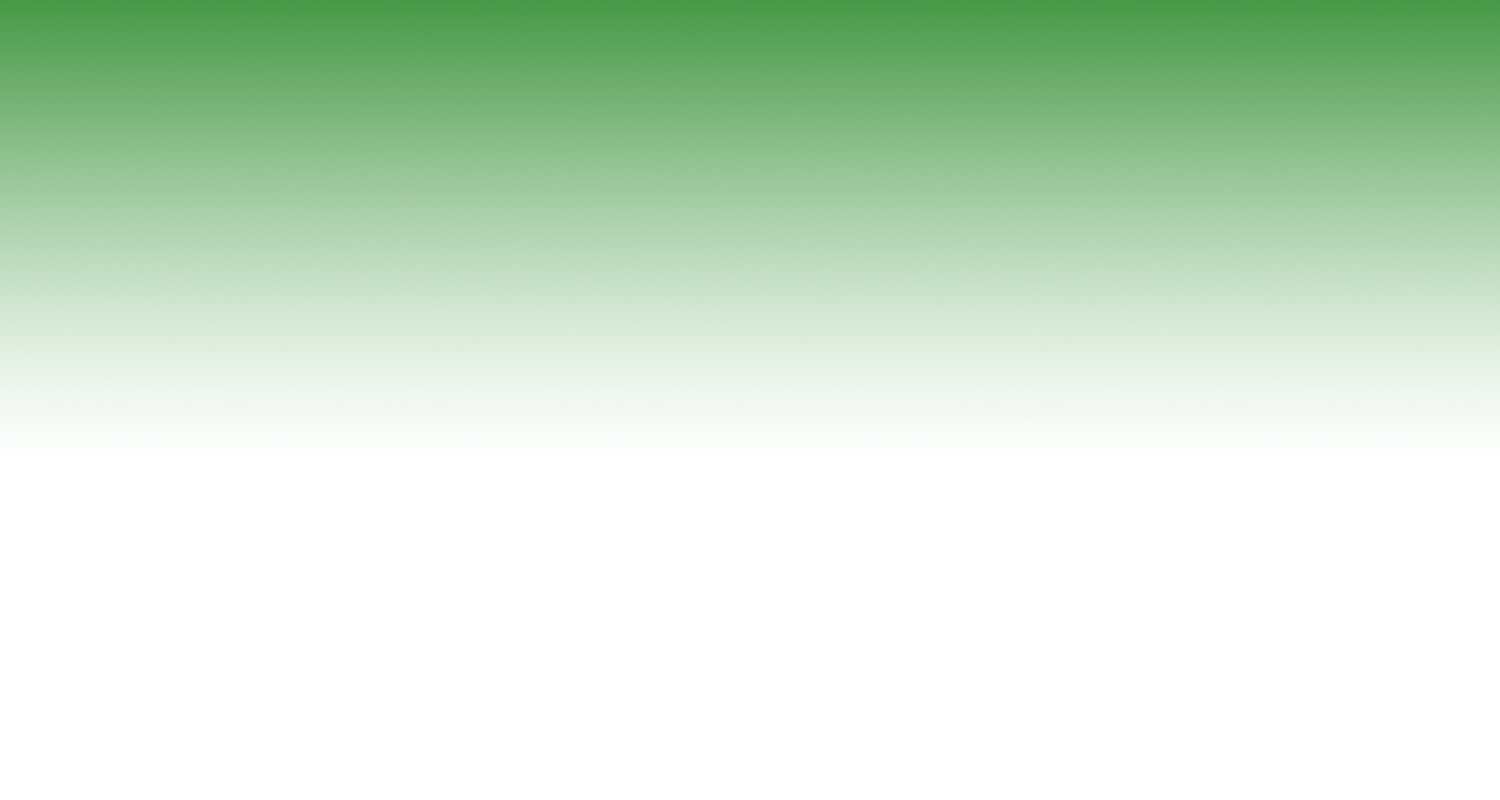
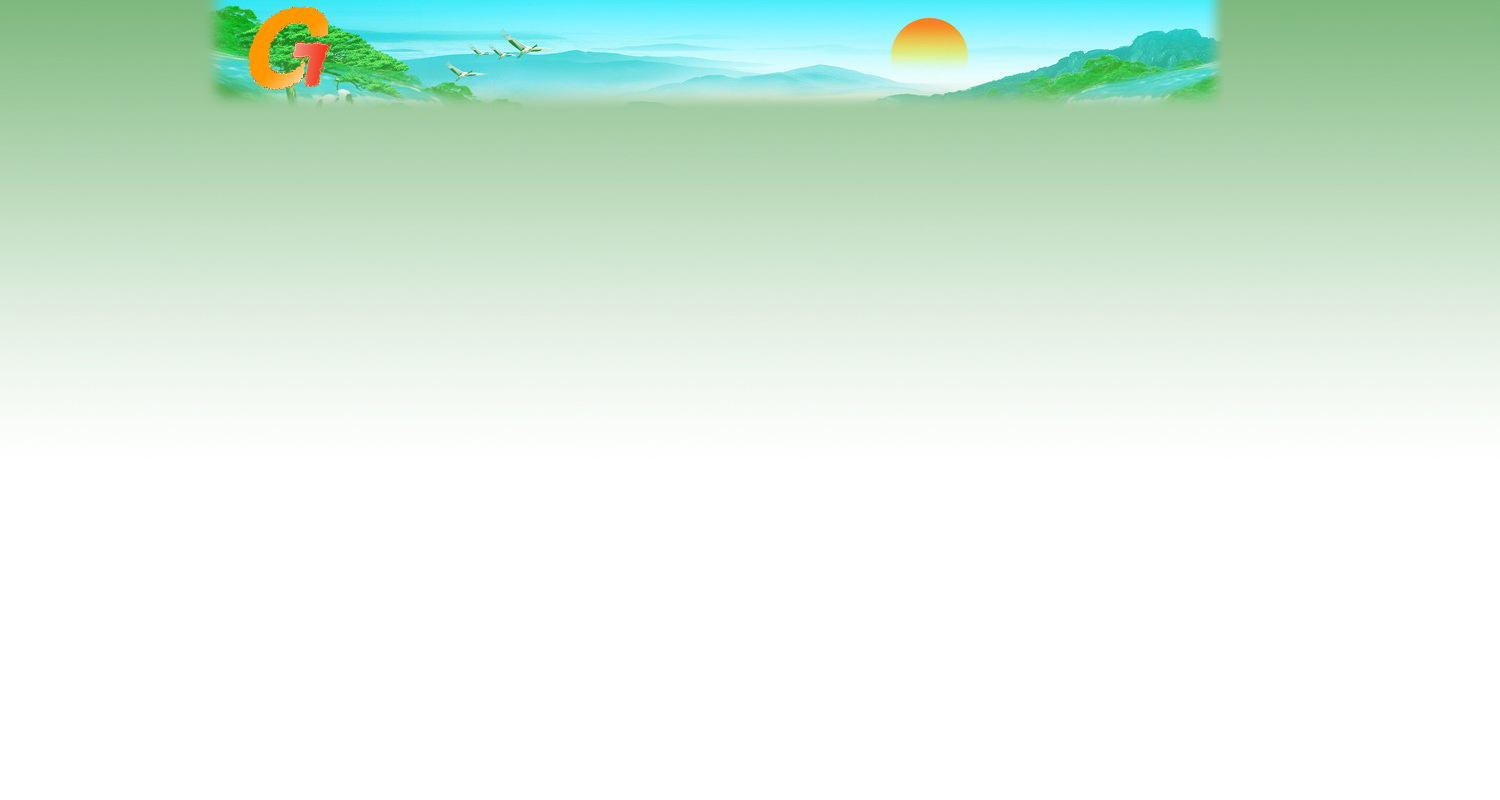
头部删改

Changed region(s): [[0.0, 0.0, 1.0, 0.3125]]

diff --git a/index.css b/index.css
@@ -5,7 +5,7 @@ body {
 	font-family:Verdana, Geneva, sans-serif;
 	color: #333;
 	background-image: url(images/bg-1.jpg);
-	background-repeat: repeat-x;
+	background-repeat: no-repeat;
 }
 .box {
 	width: 1002px;
@@ -20,18 +20,15 @@ body {
 .head {
 	height: 100px;
 	width: 1002px;
-	background-image: url(images/hebg.jpg);
-	background-repeat: no-repeat;
-	background-position: left;
 }
 
 .logo {
 	font-size: 36px;
 	font-weight: bolder;
-	width: 420px;
+	width: 300px;
 	float: left;
 	margin-top: 26px;
-	margin-left: 10px;
+	margin-left: 200px;
 	color: #30F;
 }
 .number {
@@ -238,7 +235,7 @@ span {
 	border-bottom-width: 1px;
 	border-top-style: solid;
 	border-bottom-style: solid;
-	border-top-color: #CCC;
+	border-top-color: #690;
 	border-bottom-color: #CCC;
 }
 .ca p {
